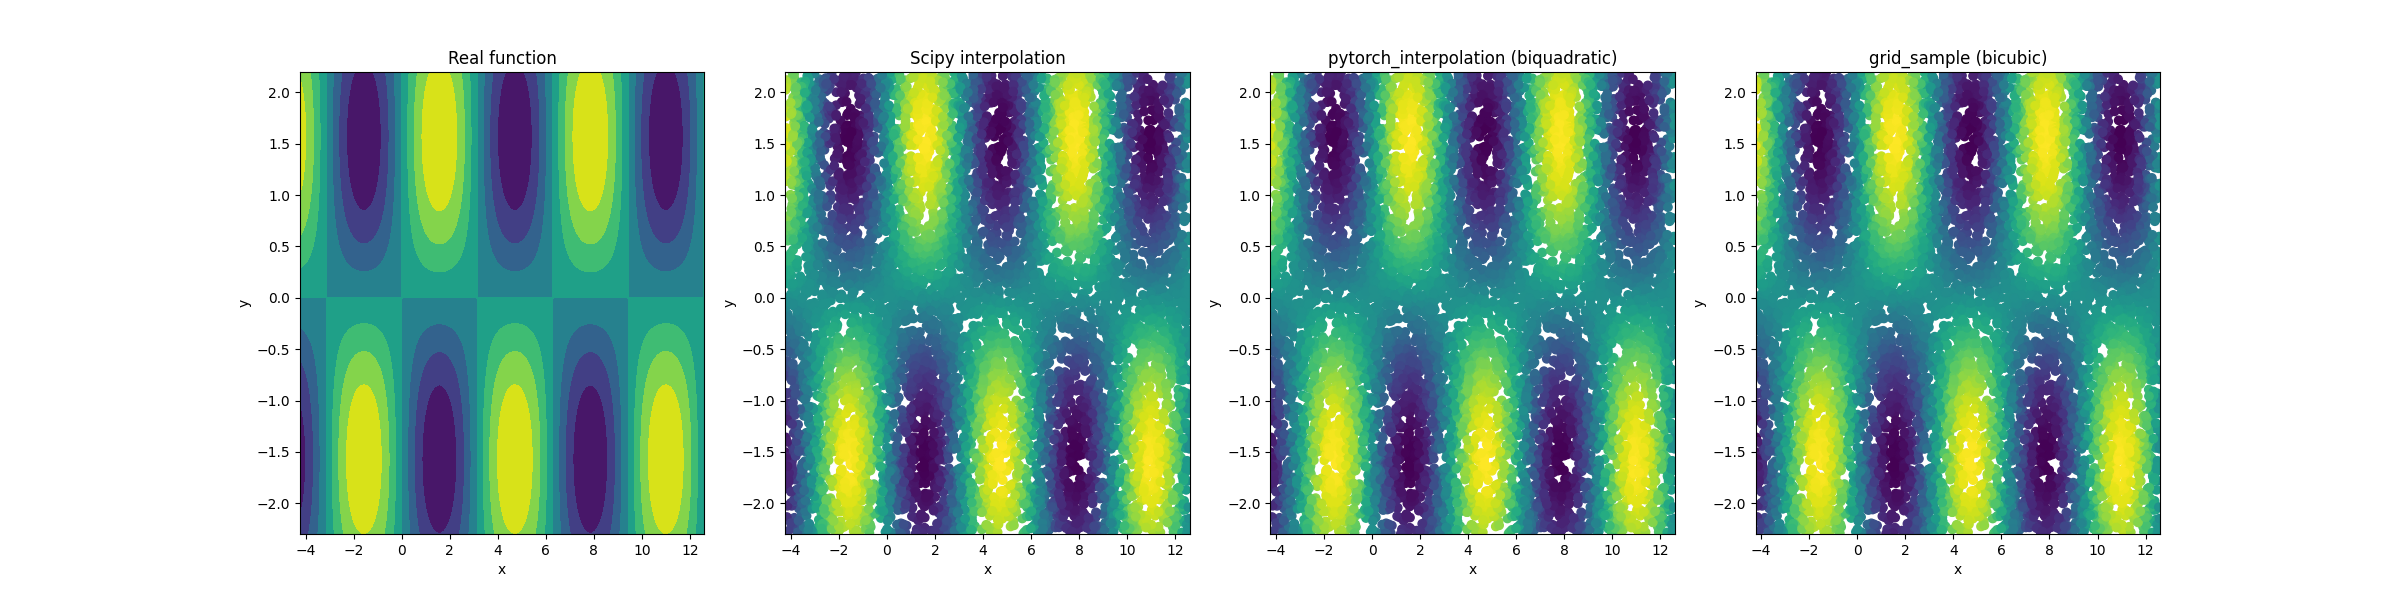
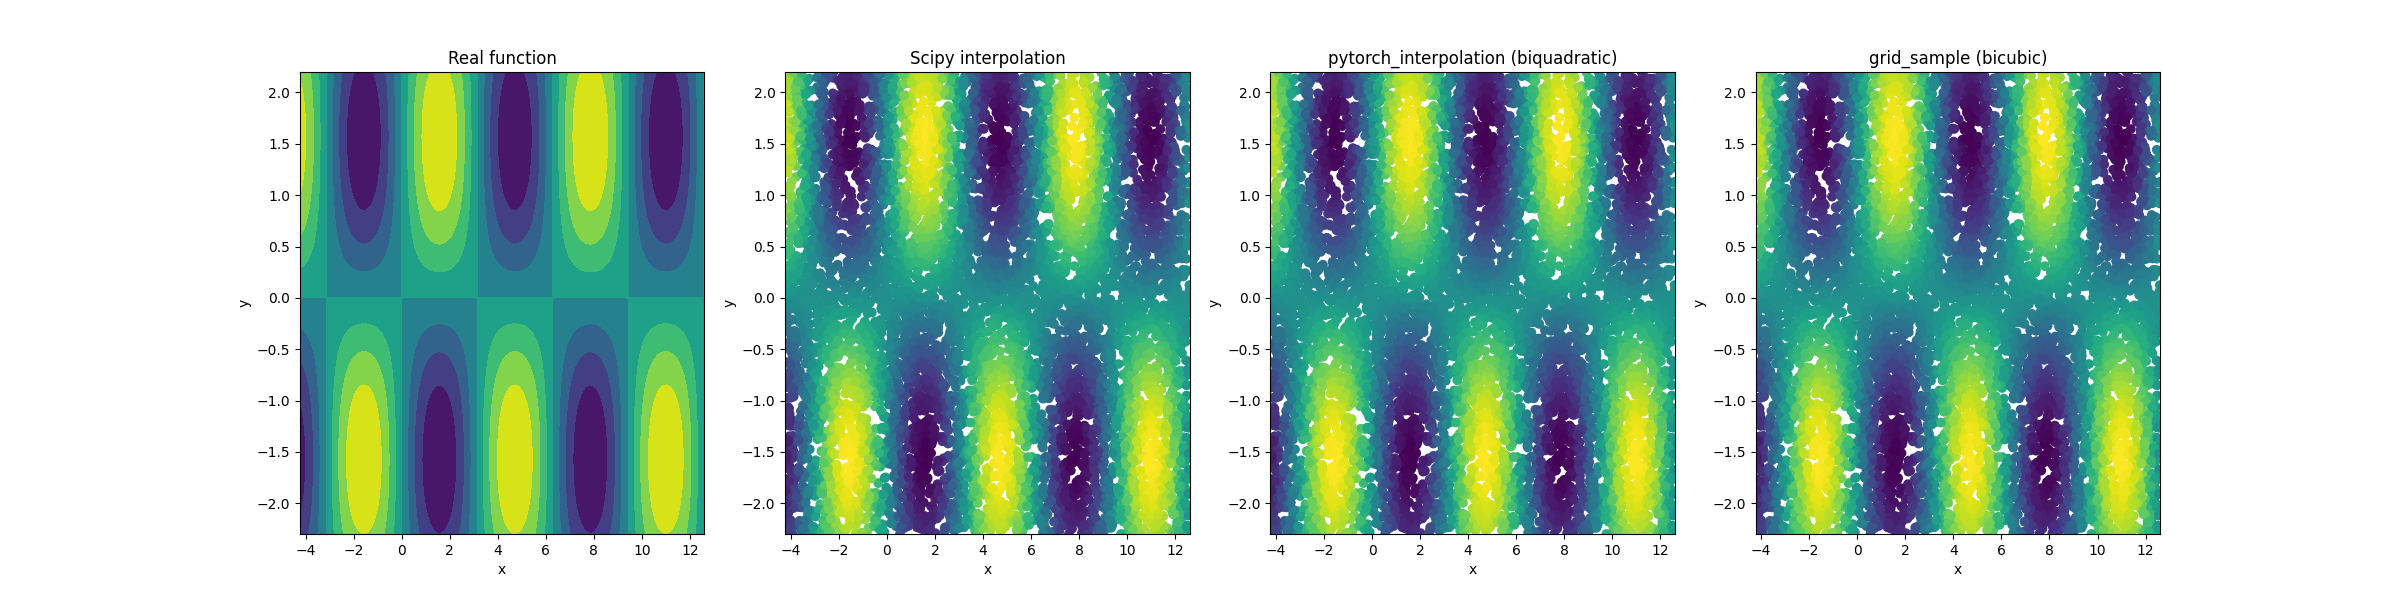
fixed compatibility with other python versions

diff --git a/setup.py b/setup.py
@@ -16,10 +16,7 @@ library_name = "pytorch_interpolation"
 description = "2d linear-quadratic interpolation on a regular grid in PyTorch"
 url="https://github.com/ferrarioa5/pytorch_interpolation"
 
-if torch.__version__ >= "2.6.0":
-    py_limited_api = True
-else:
-    py_limited_api = False
+py_limited_api = False
 
 
 def get_extensions(library_name, py_limited_api):
@@ -36,7 +33,6 @@ def get_extensions(library_name, py_limited_api):
         "cxx": [
             "-O3" if not debug_mode else "-O0",
             "-fdiagnostics-color=always",
-            "-DPy_LIMITED_API=0x03090000",  # min CPython version 3.9
             "-fopenmp",
         ],
         "nvcc": [
@@ -83,7 +79,7 @@ setup(
     long_description_content_type = "text/markdown",
     url                           = url,
     cmdclass                      = {"build_ext": BuildExtension},
-    options                       = {"bdist_wheel": {"py_limited_api": "cp39"}} if py_limited_api else {},
+    options                       = {},
 )
 
 
